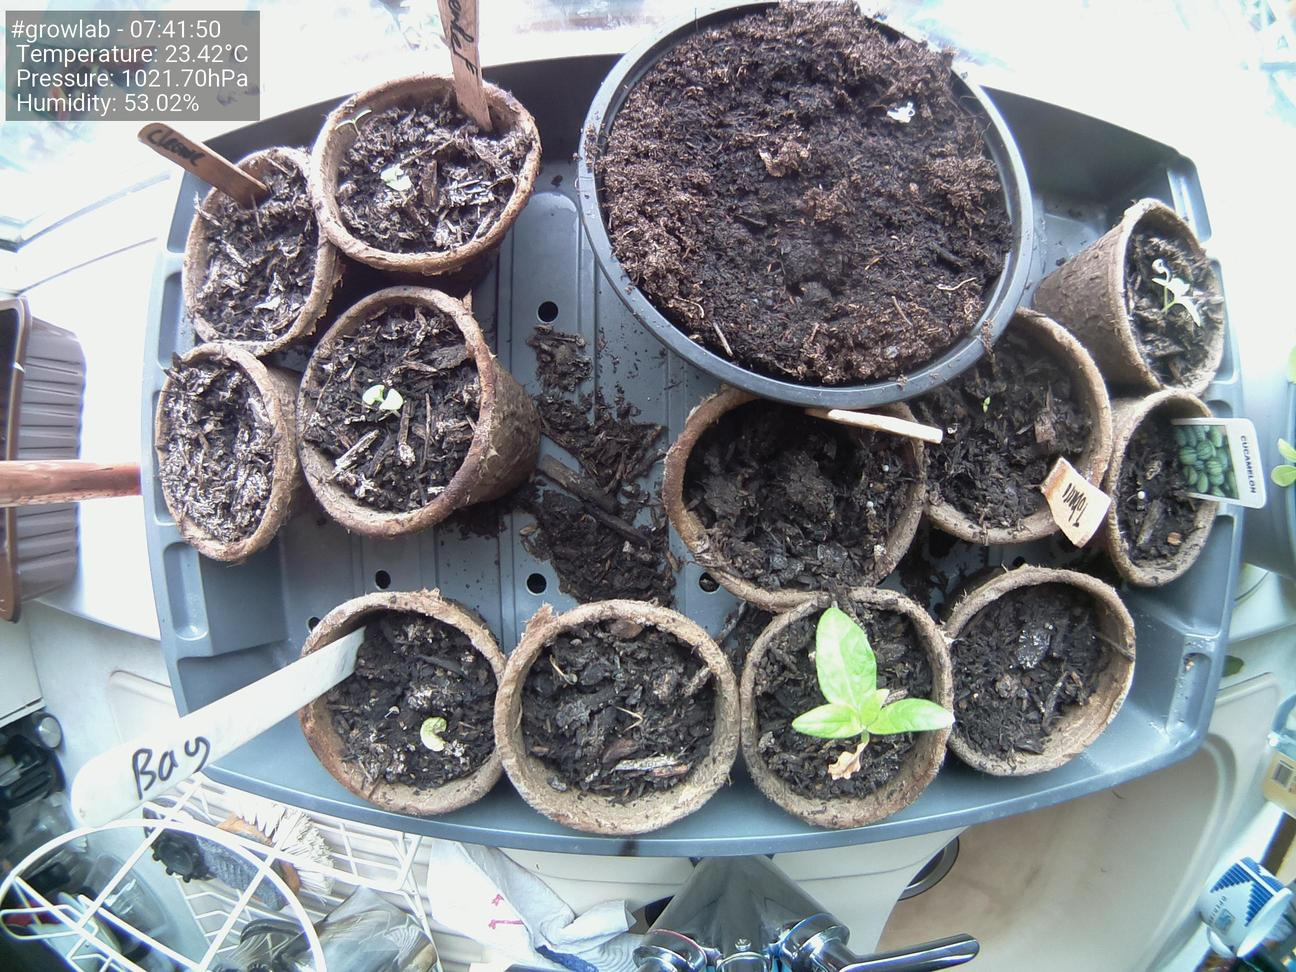
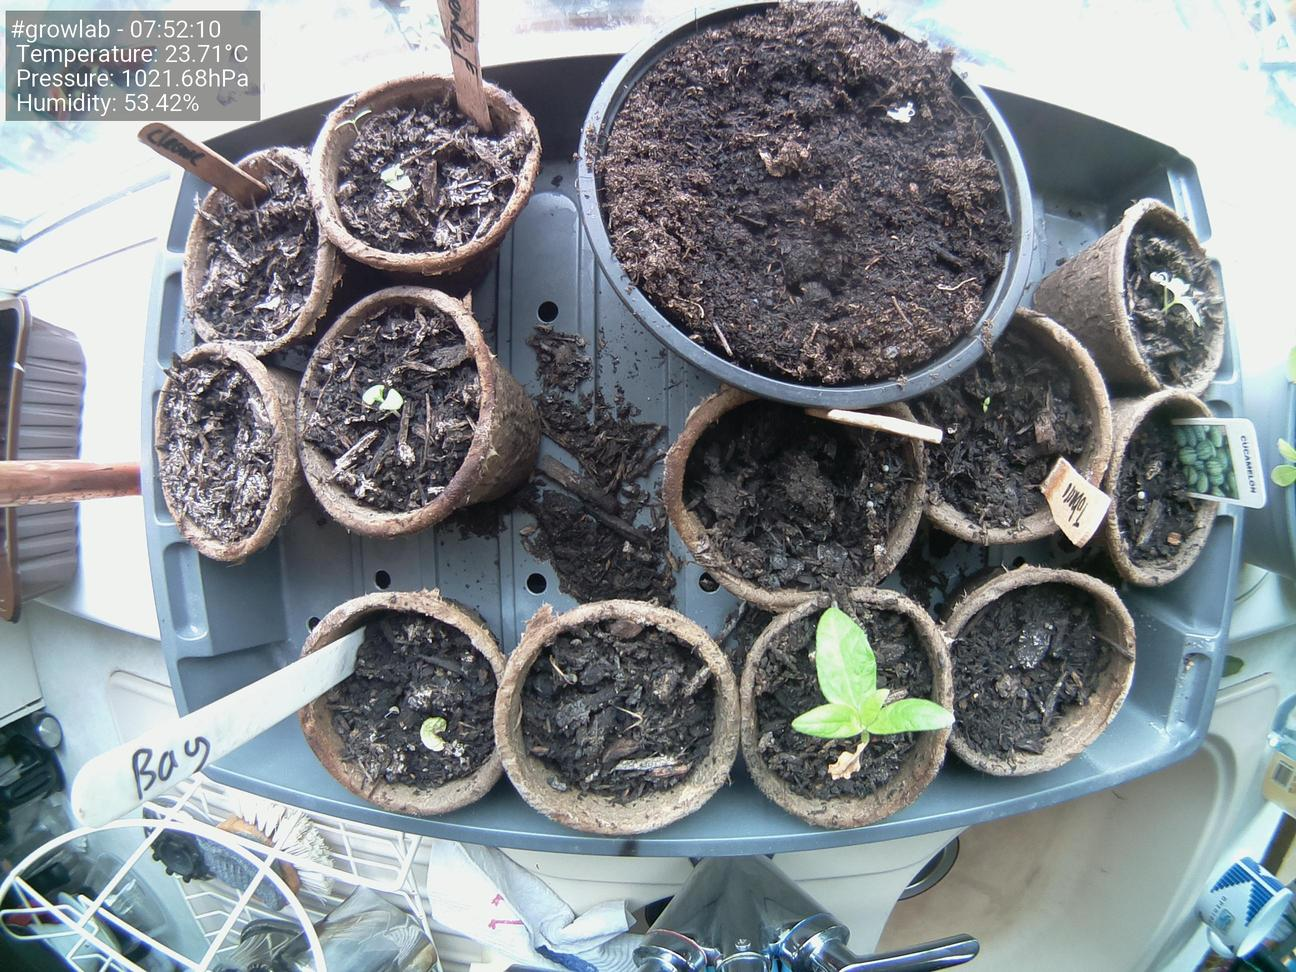
Update images at Thu 24 Jun 07:52:18 BST 2021

Changed region(s): [[0.1235, 0.0, 0.1852, 0.0926], [0.8642, 0.2469, 0.9259, 0.3086]]

diff --git a/docs/index.html b/docs/index.html
@@ -47,19 +47,19 @@
                         <tbody>
                             <tr>
                                 <td>Time</td>
-                                <td>07:41:50</td>
+                                <td>07:52:10</td>
                             </tr>
                             <tr>
                                 <td>Temperature</td>
-                                <td>23.42°C</td>
+                                <td>23.71°C</td>
                             </tr>
                             <tr>
                                 <td>Humidity</td>
-                                <td>53.02%</td>
+                                <td>53.42%</td>
                             </tr>
                             <tr>
                                 <td>Pressure</td>
-                                <td>1021.70hPa</td>
+                                <td>1021.68hPa</td>
                             </tr>
                         </tbody>
                     </table>
@@ -67,7 +67,7 @@
 
                 <h5>Latest image</h5>
                 <div style="width: 85%;">
-                            <img class="figure-img img-fluid rounded" src="./preview.jpg?uid=1624516919.7114012">
+                            <img class="figure-img img-fluid rounded" src="./preview.jpg?uid=1624517538.5117471">
                 </div>
             </div>
         </div>
